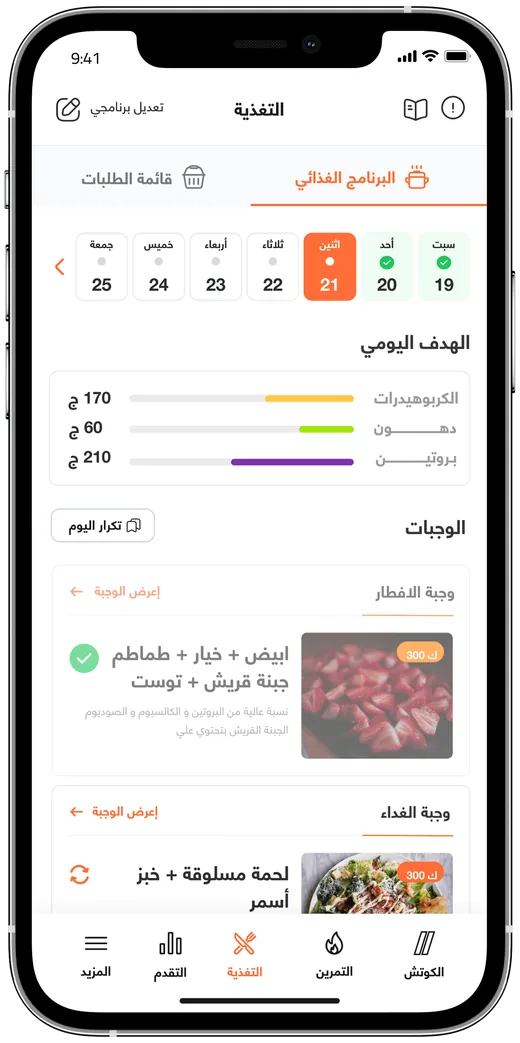
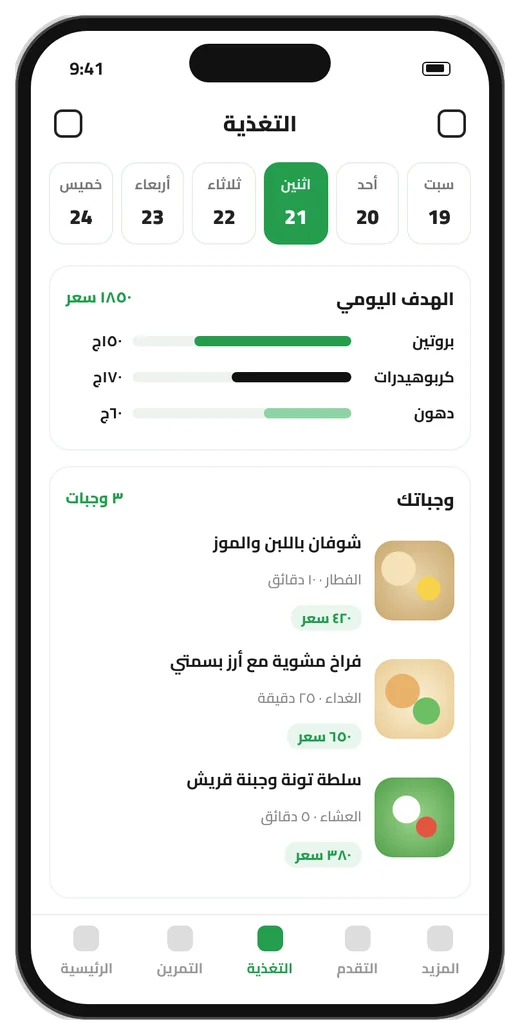
شاشات تطبيق جديدة بهوية NutFit بدل صور الكوتش
Claude-Session: https://claude.ai/code/session_01Jq8xHZeKVQdYZvT3ecHSsn

diff --git a/pricing.html b/pricing.html
@@ -61,7 +61,7 @@
 <section class="band peach"><div class="wrap center">
   <h2>حقق تغير ملحوظ مع NutFit بلس</h2>
   <p>كل اللي محتاجه عشان تحقق تغير ملحوظ من الأسابيع الأولى.</p>
-  <div class="pfs"><div class="pf"><div class="branded"><img src="assets/plus/../app-chat.webp" width="400" height="402" alt="" loading="lazy"></div><h3>متابعة فردية مع مدربك</h3><p>دعم مستمر وتشجيع دائم من أفضل أخصائيي التمرين والتغذية.</p></div><div class="pf"><div class="branded"><img src="assets/plus/customize-your-program.webp" width="400" height="402" alt="" loading="lazy"></div><h3>صمم برنامجك حسب هدفك ومستواك</h3><p>اختر هدفك ومستوى لياقتك، وهنبني لك خطة تمارين تناسبك وتساعدك توصل لنتيجتك بأفضل طريقة.</p></div><div class="pf"><div class="branded"><img src="assets/plus/../stat-change.webp" width="400" height="402" alt="" loading="lazy"></div><h3>تمارين ذكية ومتنوعة</h3><p>خصص تمارينك من أسبوع للتالي باستخدام الذكاء الاصطناعي كي تحقق أهدافك أسرع.</p></div><div class="pf"><div class="branded"><img src="assets/plus/nutrition-program.webp" width="400" height="402" alt="" loading="lazy"></div><h3>نظام غذائي متكامل وعلى ذوقك</h3><p>اختر ما تحب من بين مئات الوصفات الصحية سهلة التحضير مع قائمة أسبوعية بالطلبات.</p></div><div class="pf"><div class="branded"><img src="assets/plus/progress-metrics.webp" width="400" height="402" alt="" loading="lazy"></div><h3>تابع تقدمك على مستوى كل عضلة</h3><p>تابع تطوّرك في كل عضلة، واعرف مستواك وتقدمك خطوة بخطوة عشان توصل لنتيجتك أسرع.</p></div><div class="pf"><div class="branded"><img src="assets/plus/suppliments.webp" width="400" height="402" alt="" loading="lazy"></div><h3>برنامج مكملات محسوب بالجرعات</h3><p>خطة مكملات منظمة على حسب هدفك واحتياج جسمك بجرعات دقيقة وآمنة.</p></div><div class="pf"><div class="branded"><img src="assets/plus/../stat-progress.webp" width="400" height="402" alt="" loading="lazy"></div><h3>بدائل للتمارين</h3><p>لو التمرين مش مناسبك أو عايز تبدله، هتلاقي بدائل تناسب مستواك عشان تكمل تمرينك.</p></div></div>
+  <div class="pfs"><div class="pf"><div class="branded"><img src="assets/plus/../app-chat.webp" width="400" height="796" alt="" loading="lazy"></div><h3>متابعة فردية مع مدربك</h3><p>دعم مستمر وتشجيع دائم من أفضل أخصائيي التمرين والتغذية.</p></div><div class="pf"><div class="branded"><img src="assets/plus/customize-your-program.webp" width="400" height="796" alt="" loading="lazy"></div><h3>صمم برنامجك حسب هدفك ومستواك</h3><p>اختر هدفك ومستوى لياقتك، وهنبني لك خطة تمارين تناسبك وتساعدك توصل لنتيجتك بأفضل طريقة.</p></div><div class="pf"><div class="branded"><img src="assets/plus/../stat-change.webp" width="400" height="796" alt="" loading="lazy"></div><h3>تمارين ذكية ومتنوعة</h3><p>خصص تمارينك من أسبوع للتالي باستخدام الذكاء الاصطناعي كي تحقق أهدافك أسرع.</p></div><div class="pf"><div class="branded"><img src="assets/plus/nutrition-program.webp" width="400" height="796" alt="" loading="lazy"></div><h3>نظام غذائي متكامل وعلى ذوقك</h3><p>اختر ما تحب من بين مئات الوصفات الصحية سهلة التحضير مع قائمة أسبوعية بالطلبات.</p></div><div class="pf"><div class="branded"><img src="assets/plus/progress-metrics.webp" width="400" height="796" alt="" loading="lazy"></div><h3>تابع تقدمك على مستوى كل عضلة</h3><p>تابع تطوّرك في كل عضلة، واعرف مستواك وتقدمك خطوة بخطوة عشان توصل لنتيجتك أسرع.</p></div><div class="pf"><div class="branded"><img src="assets/plus/suppliments.webp" width="400" height="796" alt="" loading="lazy"></div><h3>برنامج مكملات محسوب بالجرعات</h3><p>خطة مكملات منظمة على حسب هدفك واحتياج جسمك بجرعات دقيقة وآمنة.</p></div><div class="pf"><div class="branded"><img src="assets/plus/../stat-progress.webp" width="400" height="796" alt="" loading="lazy"></div><h3>بدائل للتمارين</h3><p>لو التمرين مش مناسبك أو عايز تبدله، هتلاقي بدائل تناسب مستواك عشان تكمل تمرينك.</p></div></div>
 </div></section>
 <section class="band"><div class="wrap">
   <div class="free" id="free">

diff --git a/assets/site.css b/assets/site.css
@@ -284,7 +284,7 @@ footer .wrap{grid-template-columns:1.2fr 1fr 1fr}
 .hero-img.duo{position:relative;aspect-ratio:1/1.02;width:100%;max-width:560px;justify-self:center;margin-bottom:clamp(24px,4vw,48px)}
 .duo img{position:absolute;filter:drop-shadow(0 24px 36px rgba(0,0,0,.18))}
 .duo .p1{width:44%;inset-inline-end:6%;top:0}
-.duo .p2{width:46%;inset-inline-start:4%;top:14%}
+.duo .p2{width:42%;inset-inline-start:4%;top:8%}
 .gainlogo{width:min(420px,90%);margin:0 auto clamp(32px,5vw,64px);filter:drop-shadow(0 10px 30px rgba(0,0,0,.18));background:#fff;border-radius:24px;padding:20px}
 .pf .branded{max-width:260px;margin:0 auto 10px}.pf img{height:240px;width:100%;object-fit:contain}
 .qrev img{display:block;margin:0 auto 10px;width:72px;height:72px;background:#fff;border-radius:50%;padding:8px}.qrev b{display:block;font-size:18px}.qrev p{color:#fff;opacity:.85;margin:6px auto 0;font-size:15px}

diff --git a/index.html b/index.html
@@ -82,7 +82,7 @@
     </ul>
     <a class="btn" href="start.html">ابدأ رحلتك الآن</a>
   </div>
-  <div class="shot branded"><span class="s1"></span><span class="s2"></span><img src="assets/plus/progress-metrics.webp" width="400" height="402" alt="شاشة متابعة تقدم العضلات" loading="lazy"></div>
+  <div class="shot branded"><span class="s1"></span><span class="s2"></span><img src="assets/app-workouts.webp" width="520" height="1035" alt="شاشة برنامج التمارين" loading="lazy"></div>
 </div></section>
 
 <section class="band feat flip alt"><div class="wrap">
